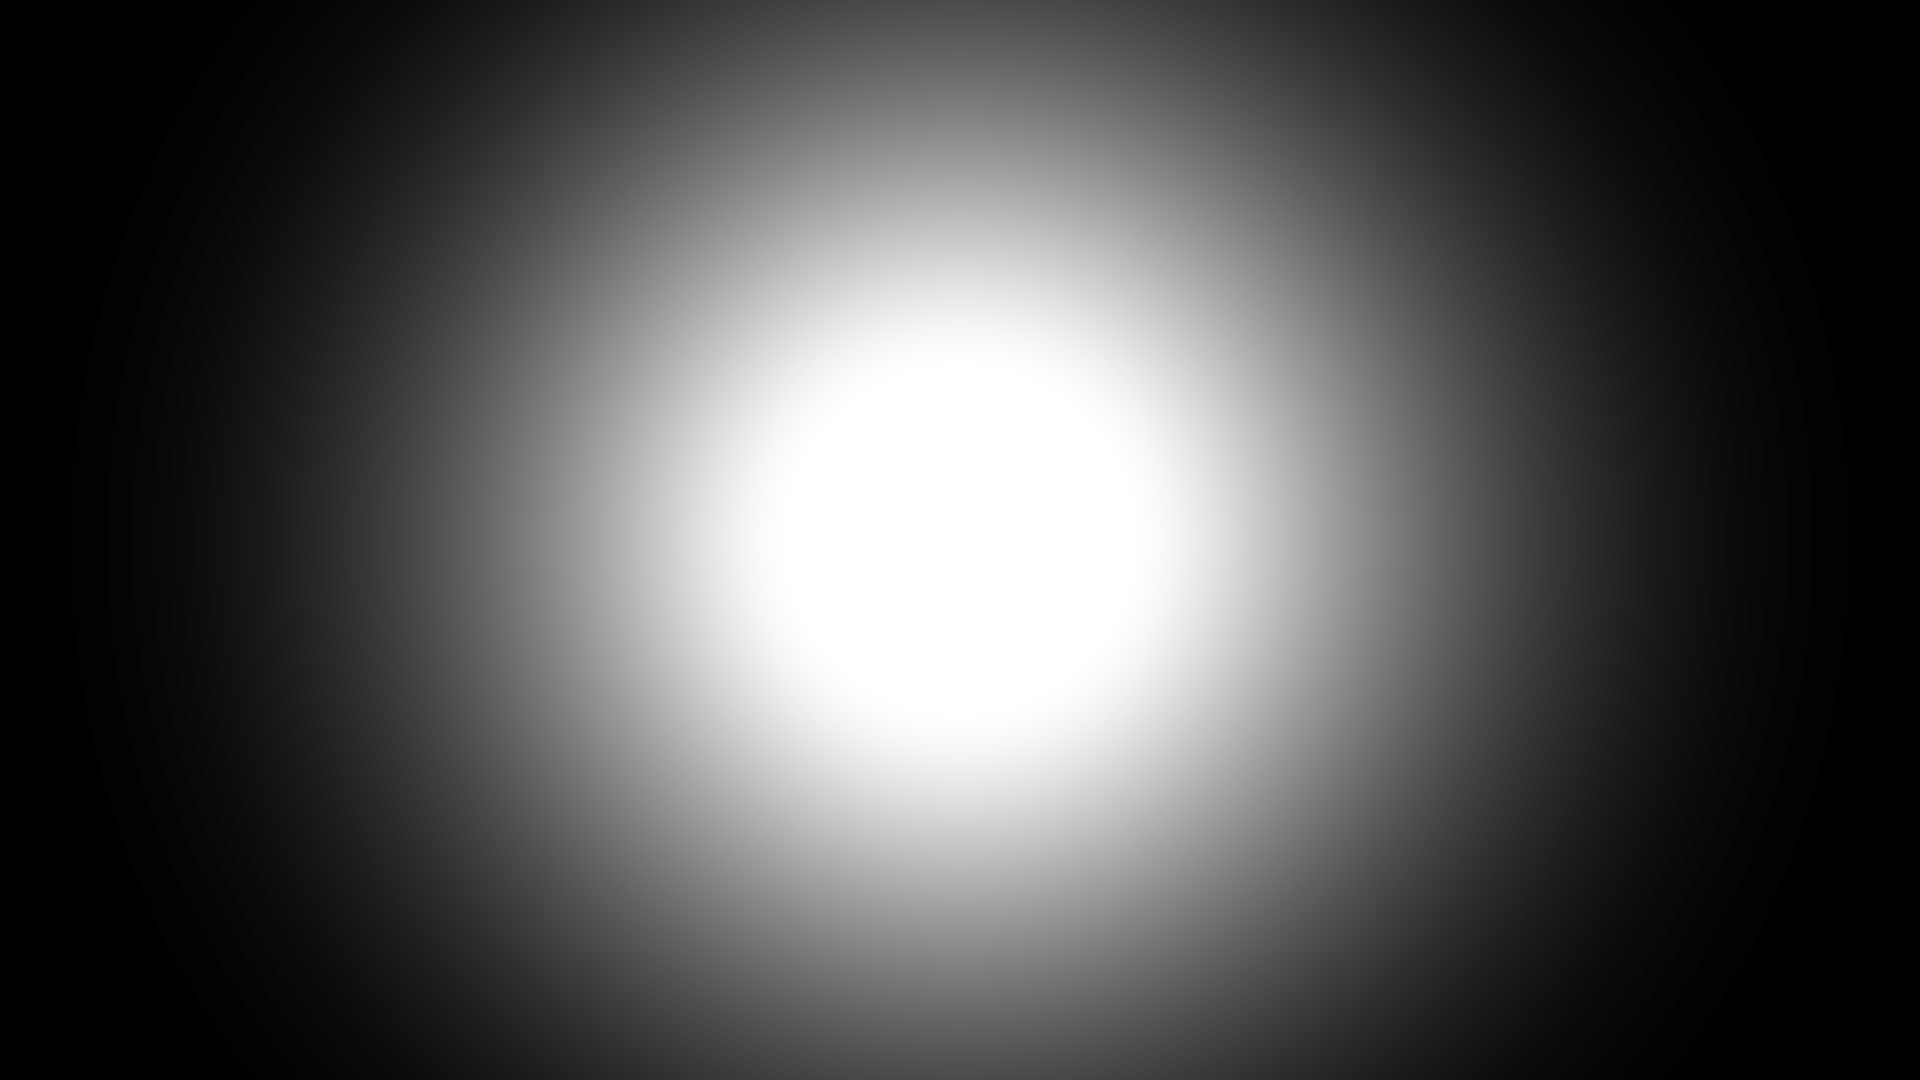
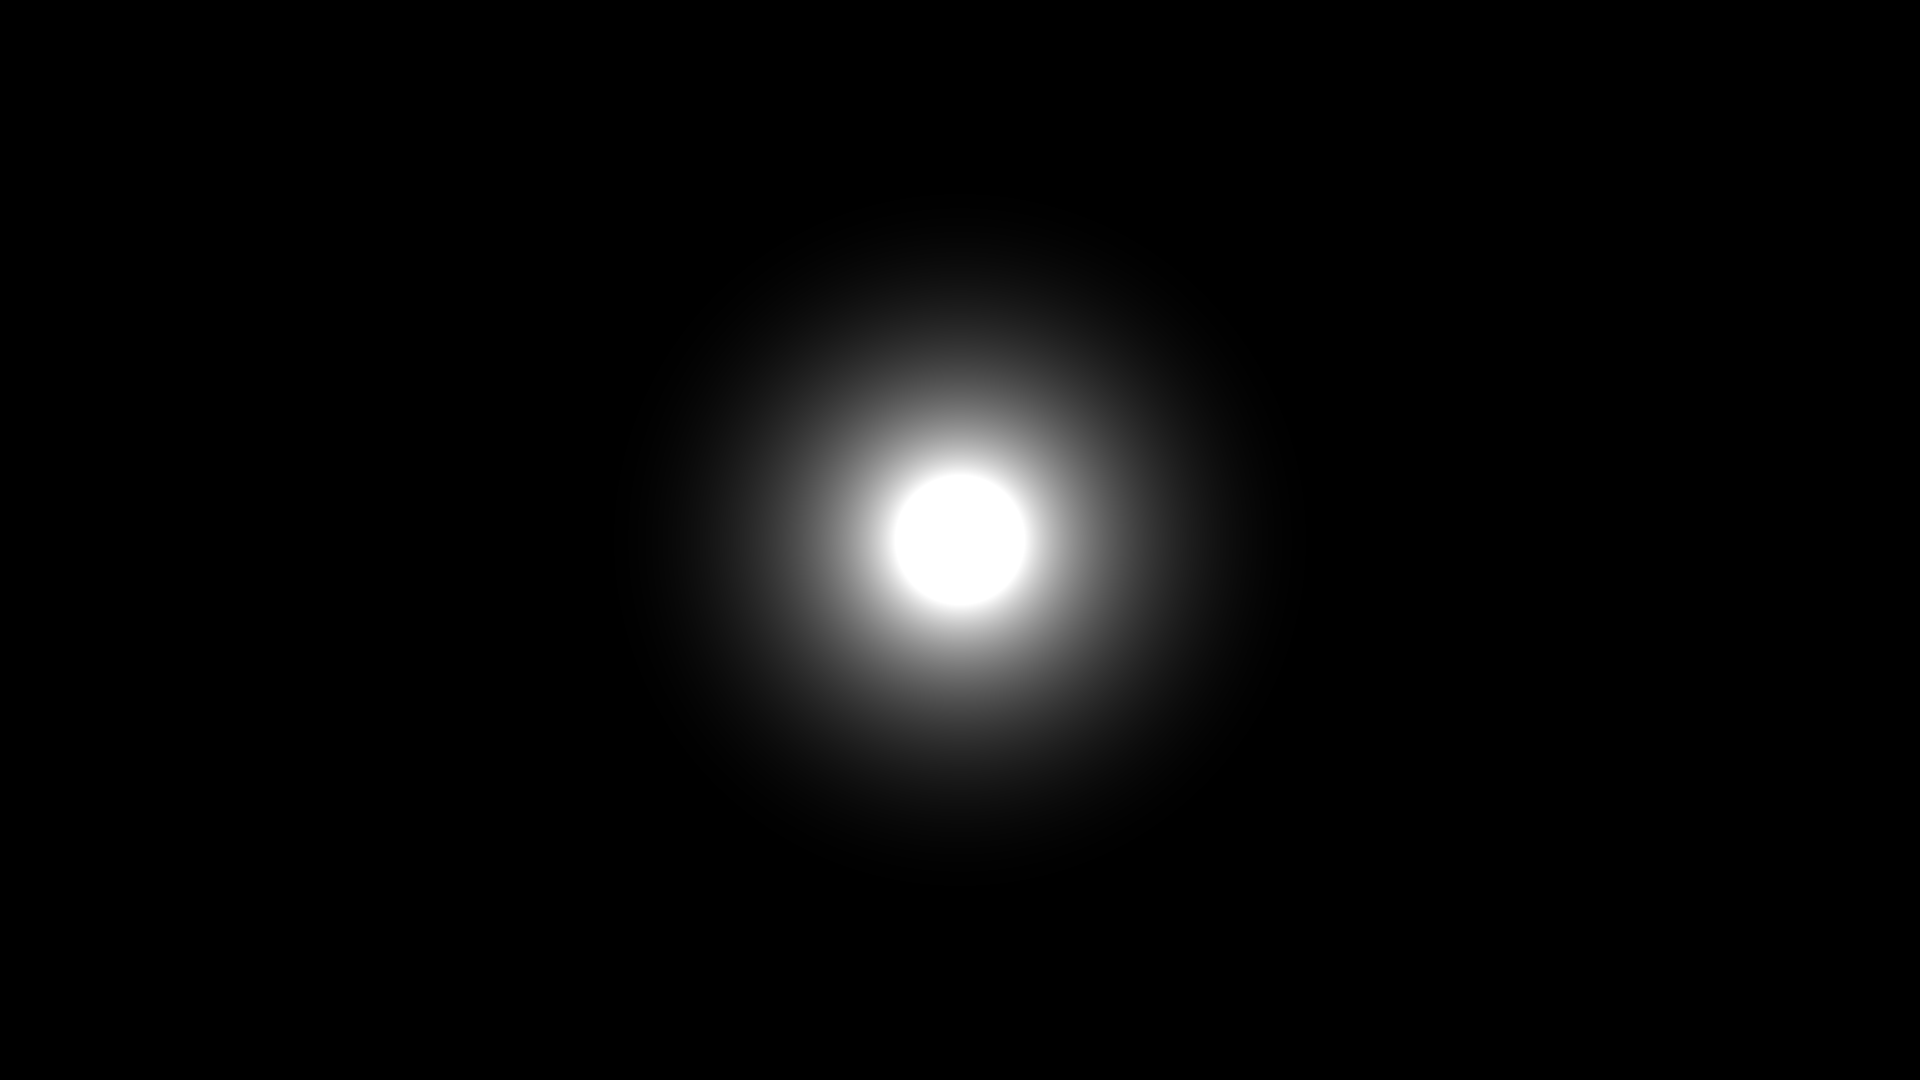
index pronto

diff --git a/index.html b/index.html
@@ -6,42 +6,116 @@
     <link rel="shortcut icon" href="anexos/midias/favicon-32x32.png" type="image/x-icon">
     <title>Start</title>
     <style>
+        @font-face {
+            font-family: DynaPuff;
+            src: url(anexos/estilos/fonts/DynaPuff-VariableFont_wdth\,wght.ttf);
+        }
         * {
             margin: 0px;
             padding: 0px;
             text-decoration: none;
-            background-position: center center;
-            background-size: cover;
+            overflow: hidden;
+            color: #ffffff;
+            max-height: 100svh;
         }
         body {
             background-color: black;
             display: flex;
-            vertical-align: center;
-            justify-content: center;
-
+            align-items: center;
+            justify-content: center; /*horizontal*/
+            width: 100vw;
+            max-width: 100svw;
+            height: 100vh;
+            
         }
         .portal {
-            animation: por2tal 2s linear infinite;
+            background: black url(anexos/midias/portal.png) no-repeat center;
+            background-size: cover;
+ 
+            position: absolute;
+            width: 100vh;
+            height: 100vh;
+            animation: portal 3s linear infinite;
         }
         @keyframes portal {
             0% {transform: rotate(0deg);}
             100% {transform: rotate(360deg);}
-            
         }
-
-        .fundopreto {
+        .buraco {
+            background: rgba(255, 255, 255, 0) url(anexos/midias/img.png) no-repeat center;
+            background-size: cover;
+            position: absolute;
+            width: 100vw;
+            height: 100vh;
             animation: buraco 2s linear forwards;
         }
         @keyframes buraco {
+            0% {background-color: #000000;}
+            100% {background-color: #00000000;}
+        }
+        
+        
+
+        .texto {
+            position: absolute;
+            width: 100vw;
+            top: 50%;
+            transform: translate(0, -50%);
+        }
+        .div1, .div2 {
+            opacity: 0;
+            text-align: center;
+            margin: auto;
+            min-height: 20vh;
+            
+            animation: opaco 3s linear forwards;
+            animation-delay: 1s;
+        }        
+
+        #h1 {
+            display: inline-block;
+            font-family: DynaPuff;
+            font-size: clamp(5rem,10vw,20vh);
+            font-weight: bolder;
+        }
+        @keyframes opaco {
             0% {opacity: 0;}
             100% {opacity: 100;}
         }
-        
+        .h1, .h5, .h9 {
+            animation: poping 1.5s linear infinite;
+            animation-delay: 0s;
+        }
+        .h2, .h6, .h10 {
+            animation: poping 1.5s linear infinite;
+            animation-delay: 0.33s;
+        }
+        .h3, .h7 {
+            animation: poping 1.5s linear infinite;
+            animation-delay: 0.66s;
+        }
+        .h4, .h8 {
+            animation: poping 1.5s linear infinite;
+            animation-delay: 1s;
+        }
+        @keyframes poping {
+            0% {
+                translate: 0 10px;
+            }
+            50% {
+                translate: 0 -20px;
+            }
+            100% {
+                translate: 0 10px;
+            }
+        }
+
+
 
         a {
             position: absolute;
             top: 80%;
-            font-size: 4rem;
+            font-size: clamp(3rem,5vw,10vh);
             padding: 2px 8px;
             border: 2px solid #ffffff;
             border-radius: 1rem;
@@ -62,7 +136,8 @@
 
         @keyframes ani1 {
             0% {opacity: 0;}
-            50% {opacity: 1;}
+            40% {opacity: 1;}
+            60% {opacity: 1;}
             100% {opacity: 0;}
         }
         @keyframes ani2 {
@@ -74,9 +149,25 @@
     </style>
 </head>
 <body>
-    <img class="portal"src="anexos/midias/magic-portal-8836944_1280.jpg" alt="">
-    <img class="fundopreto"src="anexos/midias/img.png" alt="">
-    <a href="/01/" class="a1">PLAY</a>
-    <a href="/01/" class="a2">PLAY</a>
+    <div class="portal"></div>
+    <div class="buraco"></div>
+    <div class="texto">
+        <div class="div1">
+            <div id="h1" class="h1">L</div id="h1"> 
+            <div id="h1" class="h2">U</div id="h1"> 
+            <div id="h1" class="h3">M</div id="h1" class="h4"> 
+            <div id="h1" class="h4">I</div id="h1">
+        </div>
+        <div class="div2">
+            <div id="h1" class="h5">F</div id="h1">
+            <div id="h1" class="h6">í</div id="h1"> 
+            <div id="h1" class="h7">s</div id="h1"> 
+            <div id="h1" class="h8">i</div id="h1"> 
+            <div id="h1" class="h9">c</div id="h1"> 
+            <div id="h1" class="h10">a</div id="h1">
+        </div>
+    </div>
+    <a href="/01/" class="a1">START</a>
+    <a href="/01/" class="a2">START</a>
 </body>
 </html>
